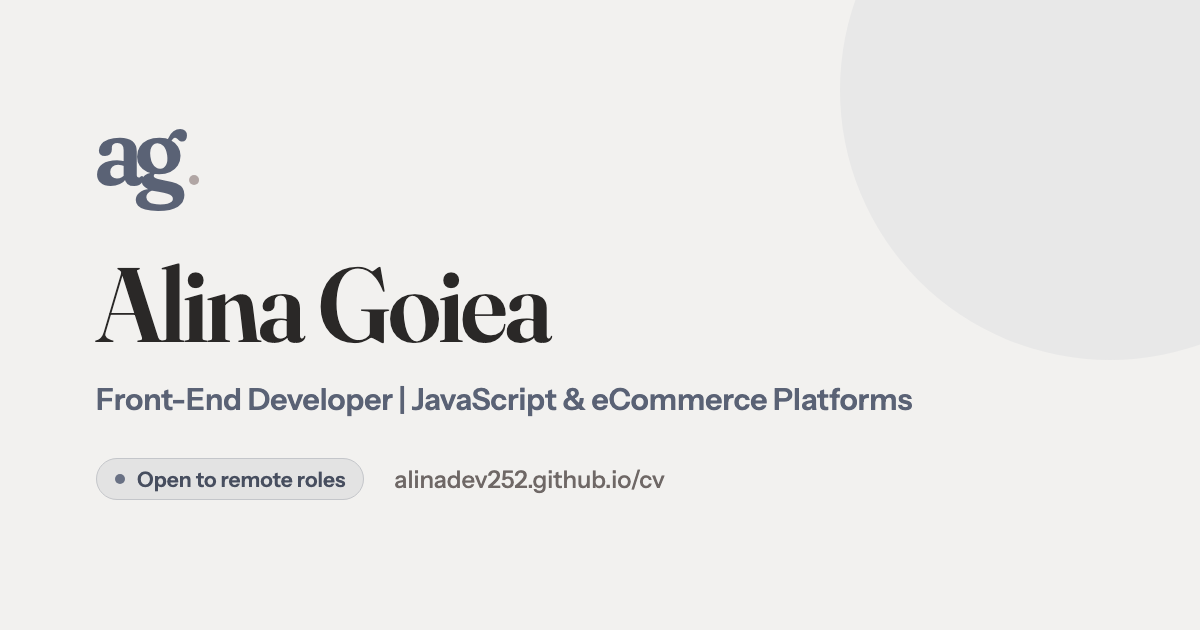
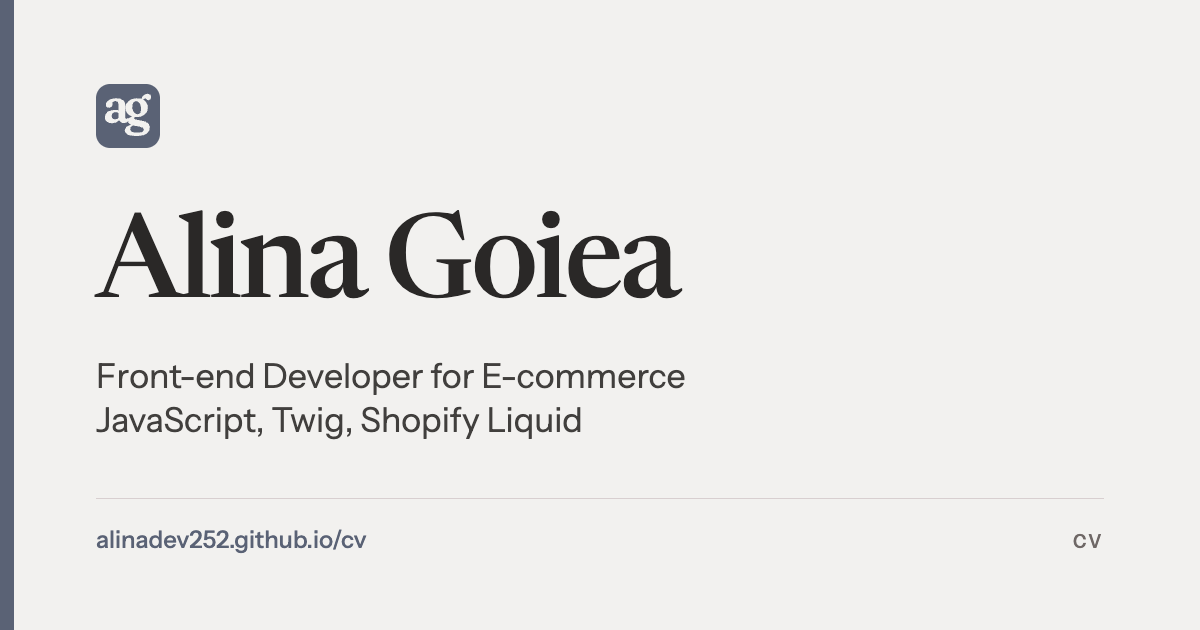
Rebuild share image to match portfolio fonts and role line

diff --git a/index.html b/index.html
@@ -12,7 +12,7 @@
   <meta property="og:image" content="https://alinadev252.github.io/cv/assets/og-image.png">
   <meta property="og:image:width" content="1200">
   <meta property="og:image:height" content="630">
-  <meta property="og:image:alt" content="Alina Goiea, Front-End Developer, open to remote roles">
+  <meta property="og:image:alt" content="Alina Goiea, Front-end Developer for E-commerce | JavaScript, Twig, Shopify Liquid">
   <meta property="og:site_name" content="Alina Goiea">
   <meta name="twitter:card" content="summary_large_image">
   <link rel="canonical" href="https://alinadev252.github.io/cv/">
